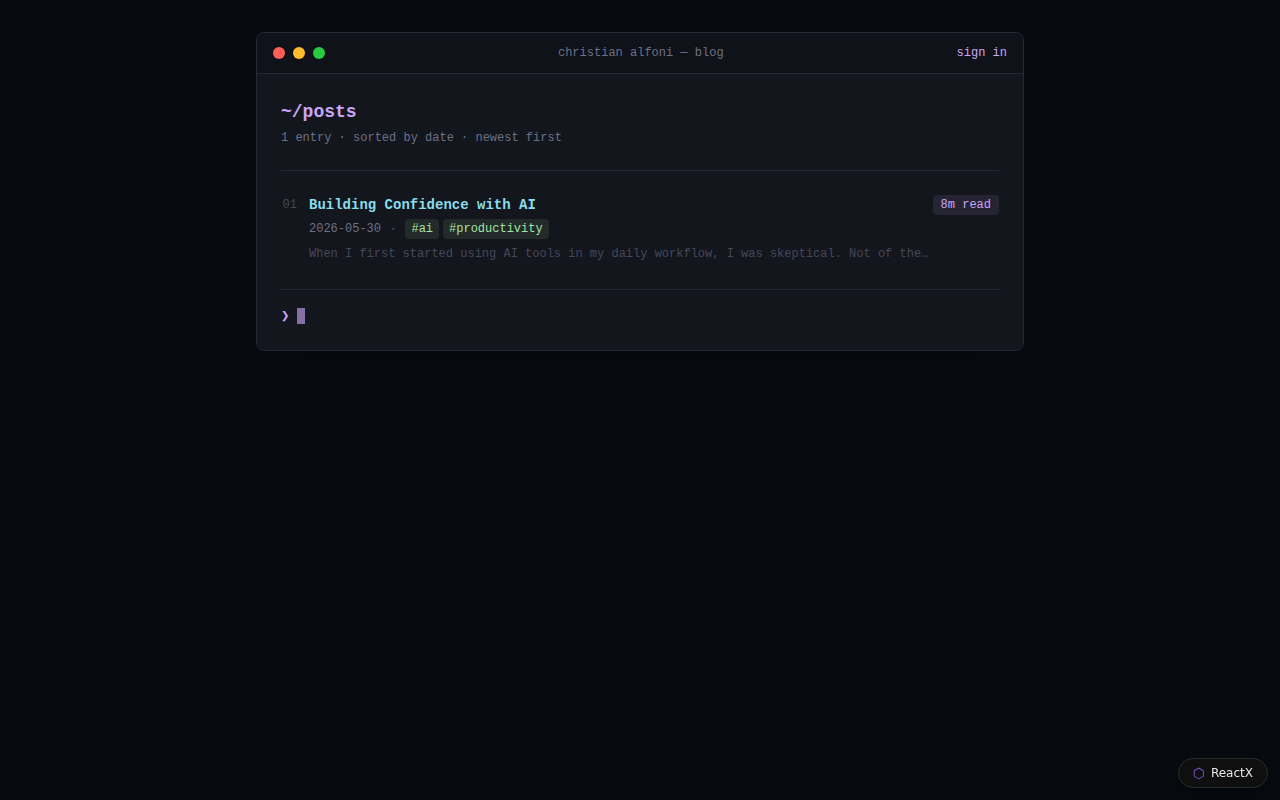
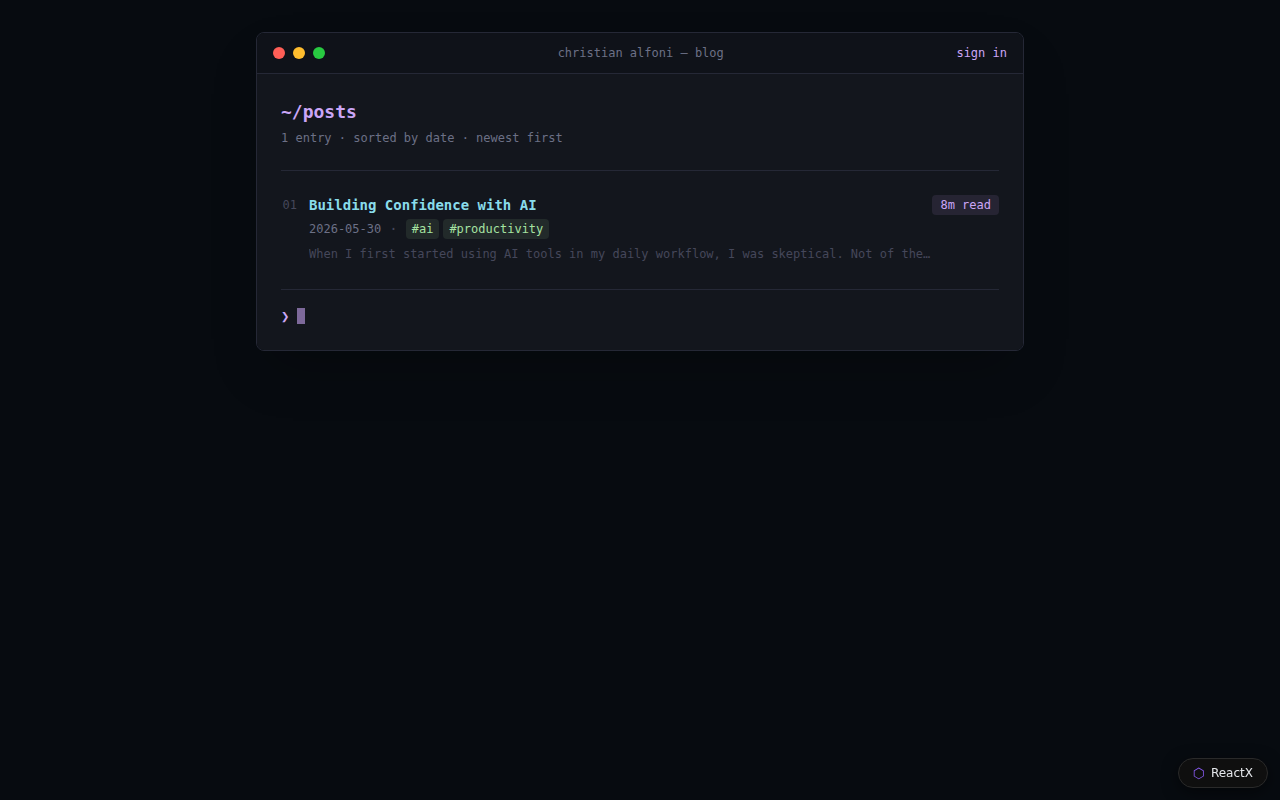
feat: self-host JetBrains Mono with preload for zero FOUT
Downloads latin and latin-ext variable font woff2 files to public/fonts/.
Declares @font-face with font-display: optional so the font is only used
if ready before first paint — no swap, no flash. Preloads the latin subset
in index.html so it loads immediately on HTML parse. Sets --font-mono in
the Tailwind theme so font-mono utilities use JetBrains Mono throughout.

https://claude.ai/code/session_01TmoDrug1paqAPqPonjepTE

diff --git a/src/index.css b/src/index.css
@@ -1,6 +1,26 @@
 @import "tailwindcss";
 
+@font-face {
+  font-family: 'JetBrains Mono';
+  font-style: normal;
+  font-weight: 100 800;
+  font-display: optional;
+  src: url('/fonts/jetbrains-mono-latin-ext.woff2') format('woff2');
+  unicode-range: U+0100-02BA, U+02BD-02C5, U+02C7-02CC, U+02CE-02D7, U+02DD-02FF, U+0304, U+0308, U+0329, U+1D00-1DBF, U+1E00-1E9F, U+1EF2-1EFF, U+2020, U+20A0-20AB, U+20AD-20C0, U+2113, U+2C60-2C7F, U+A720-A7FF;
+}
+
+@font-face {
+  font-family: 'JetBrains Mono';
+  font-style: normal;
+  font-weight: 100 800;
+  font-display: optional;
+  src: url('/fonts/jetbrains-mono-latin.woff2') format('woff2');
+  unicode-range: U+0000-00FF, U+0131, U+0152-0153, U+02BB-02BC, U+02C6, U+02DA, U+02DC, U+0304, U+0308, U+0329, U+2000-206F, U+20AC, U+2122, U+2191, U+2193, U+2212, U+2215, U+FEFF, U+FFFD;
+}
+
 @theme {
+  --font-mono: 'JetBrains Mono', ui-monospace, monospace;
+
   --color-base: #070B10;
   --color-terminal: #13161D;
   --color-chrome: #0F1219;

diff --git a/index.html b/index.html
@@ -5,6 +5,7 @@
     <link rel="icon" type="image/svg+xml" href="/favicon.svg" />
     <meta name="viewport" content="width=device-width, initial-scale=1.0" />
     <title>ai-driven</title>
+    <link rel="preload" href="/fonts/jetbrains-mono-latin.woff2" as="font" type="font/woff2" crossorigin>
     <link rel="stylesheet" href="/src/index.css" />
   </head>
   <body>
